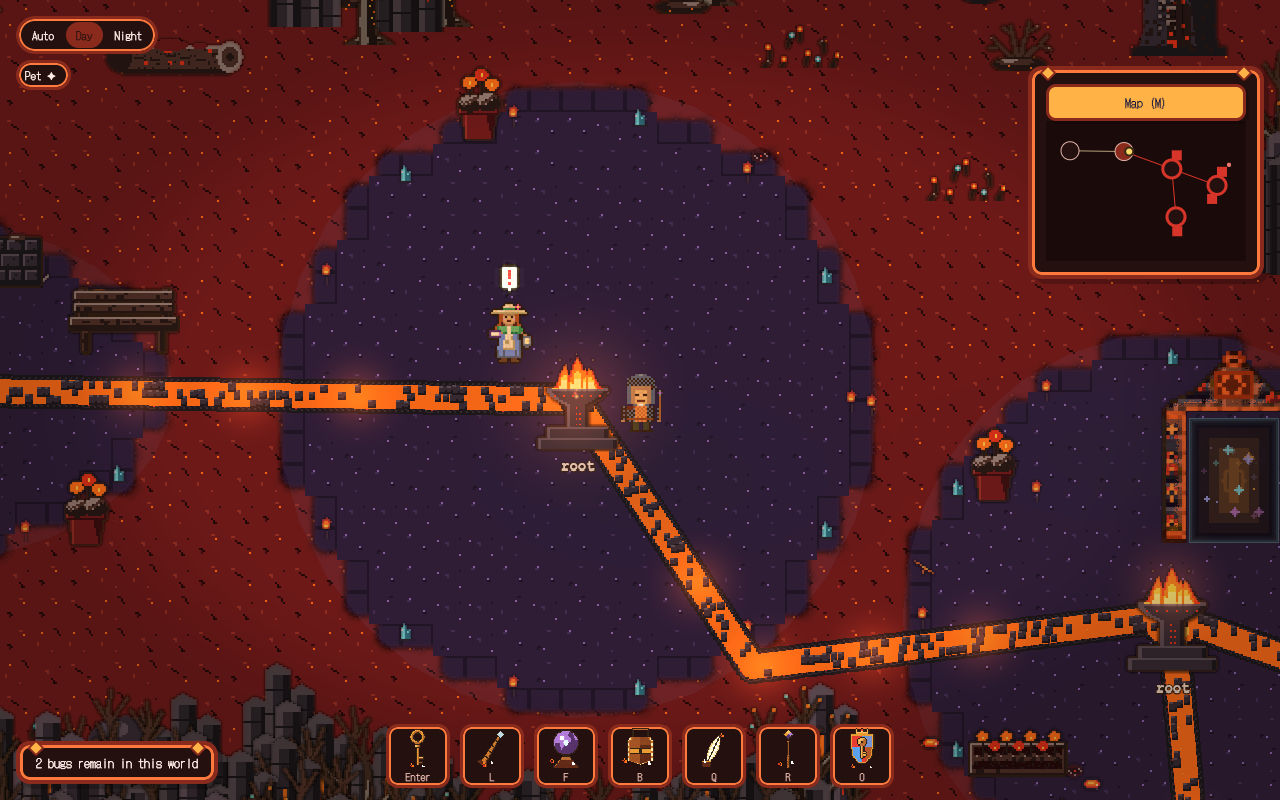
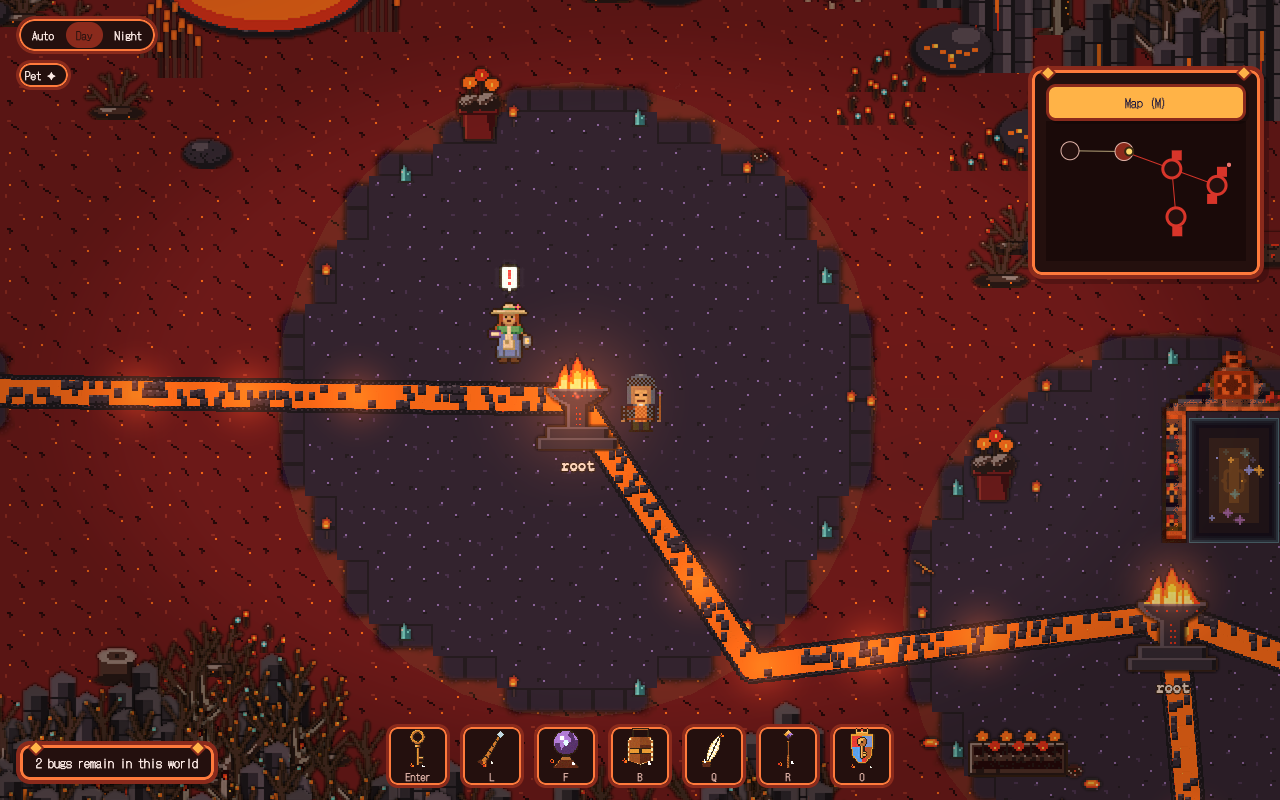
Shrink empty clearings in the shadow realm
User decision 2026-09-30. mergeLayer reports emptyClusterIds for an
exclusive layer (base clusters with no shown portal and no layer path);
WorldScene hands the ground bake drawnClearingRadii for those, a small
patch around the fountain. Layout (arch spots, gates, keepouts) keeps the
full clearing; the bake internals are untouched.

diff --git a/apps/demo/e2e/shadow-owner.spec.ts b/apps/demo/e2e/shadow-owner.spec.ts
@@ -205,6 +205,8 @@ interface Drawn {
 	monsterSprites: string[];
 	editedMarkers: string[];
 	signs: string[];
+	/** Each clearing's drawn ground radii, by cluster id (a hidden annex shares its folder's label). */
+	ground: Record<string, [number, number]>;
 }
 
 /** What WorldScene itself has drawn, beyond the arches. */
@@ -220,7 +222,10 @@ async function drawn(page: Page): Promise<Drawn> {
 			monsterSprites: Map<string, { active: boolean }>;
 			editedMarkers: Map<string, unknown>;
 			signs: { placed: Map<string, unknown> } | null;
+			drawnGroundRadii: Map<string, { x: number; y: number }>;
 		};
+		const ground: Record<string, [number, number]> = {};
+		for (const [id, r] of world.drawnGroundRadii) ground[id] = [r.x, r.y];
 		const spots: Record<string, [number, number]> = {};
 		for (const [id, p] of world.portalWorldPos) spots[id] = [p.x, p.y];
 		return {
@@ -230,6 +235,7 @@ async function drawn(page: Page): Promise<Drawn> {
 				.map(([id]) => id),
 			editedMarkers: [...world.editedMarkers.keys()],
 			signs: [...(world.signs?.placed.keys() ?? [])],
+			ground,
 		};
 	});
 }
@@ -584,6 +590,23 @@ test("owner: the toolkit's sudo entry raises the shadow realm, hidden files read
 	expect(before.portals.length).toBeGreaterThan(0);
 	expect(before.monsters.length).toBeGreaterThan(0);
 	expect(beforeDrawn.monsterSprites.length).toBeGreaterThan(0);
+	const docsId = await page.evaluate(
+		() =>
+			(
+				window as unknown as { __cabnStore: { getState(): CabnStore } }
+			).__cabnStore
+				.getState()
+				.worldMap?.clusters.find((c) => c.label === "docs")?.id ?? "",
+	);
+	const rootId = await page.evaluate(
+		() =>
+			(
+				window as unknown as { __cabnStore: { getState(): CabnStore } }
+			).__cabnStore
+				.getState()
+				.worldMap?.clusters.find((c) => c.label === "root")?.id ?? "",
+	);
+	expect(beforeDrawn.ground[docsId]?.[0]).toBeGreaterThan(150);
 	const beforeScenery = await scenery(page);
 	expect(beforeScenery.items.length).toBeGreaterThan(20);
 	expect(beforeScenery.archTextures).toEqual(["portal-arch-strip"]);
@@ -647,6 +670,11 @@ test("owner: the toolkit's sudo entry raises the shadow realm, hidden files read
 	).toEqual([]);
 	expect(realmDrawn.signs.filter((p) => !isHidden(p))).toEqual([]);
 	expect(realmDrawn.editedMarkers.filter((p) => !isHidden(p))).toEqual([]);
+	// docs, with nothing hidden under it, draws only a small patch; root,
+	// which a layer path still leaves, keeps its full clearing.
+	expect(realmDrawn.ground[docsId]?.[0]).toBeLessThanOrEqual(110);
+	expect(realmDrawn.ground[docsId]?.[1]).toBeLessThanOrEqual(80);
+	expect(realmDrawn.ground[rootId]).toEqual(beforeDrawn.ground[rootId]);
 	// The normal arch spots keep their places in the layout, undrawn.
 	for (const [id, pos] of Object.entries(beforeDrawn.spots))
 		expect(realmDrawn.spots[id], id).toEqual(pos);
@@ -946,8 +974,8 @@ test("owner: the toolkit's sudo entry raises the shadow realm, hidden files read
 	expect(pet?.search).toEqual([]);
 	expect(pet?.env).toBeNull();
 
-	// For review: a normal folder with no hidden file under it keeps its
-	// clearing in the realm, empty.
+	// For review: a normal folder with no hidden file under it keeps a small
+	// patch of its clearing in the realm.
 	if (TAKE_SHOTS) {
 		const docs = await page.evaluate(() => {
 			const s = (
@@ -1025,6 +1053,7 @@ test("owner: the toolkit's sudo entry raises the shadow realm, hidden files read
 		[...beforeDrawn.monsterSprites].sort(),
 	);
 	expect(offDrawn.spots).toEqual(beforeDrawn.spots);
+	expect(offDrawn.ground).toEqual(beforeDrawn.ground);
 	expect(offDrawn.signs.sort()).toEqual([...beforeDrawn.signs].sort());
 	await expect(page.getByText(/bugs? remains? in this world/)).toHaveText(
 		`${before.monsters.length} bug${before.monsters.length === 1 ? "" : "s"} remain in this world`,

diff --git a/packages/engine/src/systems/worldLayer.ts b/packages/engine/src/systems/worldLayer.ts
@@ -452,6 +452,8 @@ export interface MergedWorld {
 	layer: LayerIds;
 	/** The layer hides the base world's portals, monsters and signs (WorldLayerProvider.exclusive). */
 	exclusive: boolean;
+	/** Base clusters an exclusive layer leaves with nothing to show (emptyBaseClusters); always empty otherwise. */
+	emptyClusterIds: ReadonlySet<string>;
 }
 
 export interface MergeOptions {
@@ -483,27 +485,72 @@ export function mergeLayer(
 	assertWorldLayerFits(base, delta);
 	const exclusive = options.exclusive === true;
 	const layerMonsters = [...delta.monsters, ...delta.extendedMonsters];
+	const manifest: WorldManifest = {
+		...base,
+		clusters: [...base.clusters, ...delta.clusters],
+		portals: exclusive
+			? [...delta.portals]
+			: [...base.portals, ...delta.portals],
+		paths: [...base.paths, ...delta.paths],
+		monsters: exclusive ? layerMonsters : [...base.monsters, ...layerMonsters],
+	};
+	const layer: LayerIds = {
+		clusterIds: new Set(delta.clusters.map((c) => c.id)),
+		portalIds: new Set(delta.portals.map((p) => p.id)),
+		pathIds: new Set(delta.paths.map(worldPathId)),
+		monsterIds: new Set(layerMonsters.map((m) => m.id)),
+		signPaths: new Set(delta.signs.map((s) => s.path)),
+	};
 	return {
 		exclusive,
-		manifest: {
-			...base,
-			clusters: [...base.clusters, ...delta.clusters],
-			portals: exclusive
-				? [...delta.portals]
-				: [...base.portals, ...delta.portals],
-			paths: [...base.paths, ...delta.paths],
-			monsters: exclusive
-				? layerMonsters
-				: [...base.monsters, ...layerMonsters],
-		},
-		layer: {
-			clusterIds: new Set(delta.clusters.map((c) => c.id)),
-			portalIds: new Set(delta.portals.map((p) => p.id)),
-			pathIds: new Set(delta.paths.map(worldPathId)),
-			monsterIds: new Set(layerMonsters.map((m) => m.id)),
-			signPaths: new Set(delta.signs.map((s) => s.path)),
-		},
+		manifest,
+		layer,
+		emptyClusterIds: exclusive
+			? emptyBaseClusters(manifest, layer)
+			: new Set<string>(),
 	};
+}
+
+/**
+ * Base clusters with nothing left to show in a merged view: no portal of
+ * theirs in it and no layer path leaving them. Base paths don't count —
+ * they only pass through on the way to somewhere else.
+ */
+export function emptyBaseClusters(
+	manifest: Pick<WorldManifest, "clusters" | "portals" | "paths">,
+	layer: Pick<LayerIds, "clusterIds" | "pathIds">,
+): Set<string> {
+	const busy = new Set(manifest.portals.map((p) => p.clusterId));
+	for (const path of manifest.paths) {
+		if (!layer.pathIds.has(worldPathId(path))) continue;
+		busy.add(path.from);
+		busy.add(path.to);
+	}
+	return new Set(
+		manifest.clusters
+			.filter((c) => !layer.clusterIds.has(c.id) && !busy.has(c.id))
+			.map((c) => c.id),
+	);
+}
+
+/** An empty clearing's drawn ground: a patch just big enough for its fountain or bonfire. */
+export const EMPTY_CLEARING_PATCH = { x: 110, y: 80 } as const;
+
+/**
+ * The ground a clearing draws (tiles, flower ring, decals, props). Only an
+ * empty one shrinks, to a patch around its centre; its layout (arch spots,
+ * path gates, scenery keepouts) keeps the full size either way.
+ */
+export function drawnClearingRadii(
+	full: { x: number; y: number },
+	empty: boolean,
+): { x: number; y: number } {
+	return empty
+		? {
+				x: Math.min(full.x, EMPTY_CLEARING_PATCH.x),
+				y: Math.min(full.y, EMPTY_CLEARING_PATCH.y),
+			}
+		: full;
 }
 
 /**

diff --git a/packages/engine/src/scenes/WorldScene.ts b/packages/engine/src/scenes/WorldScene.ts
@@ -174,6 +174,7 @@ import { activeFocusOwner } from "../systems/uiFocus.js";
 import {
 	type ActiveWorldLayer,
 	DEFAULT_SKIN,
+	drawnClearingRadii,
 	editorSaveTarget,
 	inLayerClearing,
 	isHiddenPath,
@@ -385,6 +386,7 @@ export class WorldScene extends Phaser.Scene {
 	private portalsById = new Map<string, Portal>();
 	private portalWorldPos = new Map<string, Position>();
 	private portalRingRadii = new Map<string, number>();
+	private drawnGroundRadii = new Map<string, { x: number; y: number }>();
 	private clearingRadiiY = new Map<string, number>();
 	private portalSprites = new Map<string, Phaser.GameObjects.Sprite>();
 	private portalVariantOverlays = new Map<string, Phaser.GameObjects.Image>();
@@ -1186,12 +1188,8 @@ export class WorldScene extends Phaser.Scene {
 			const g = this.add.graphics().setDepth(0);
 			for (const cluster of this.manifest.clusters) {
 				g.fillStyle(PALETTE.biome[cluster.biome], 0.35);
-				g.fillEllipse(
-					cluster.pos.x,
-					cluster.pos.y,
-					this.groundRadius(cluster) * 2,
-					this.groundRadiusY(cluster) * 2,
-				);
+				const drawn = this.drawnGround(cluster);
+				g.fillEllipse(cluster.pos.x, cluster.pos.y, drawn.x * 2, drawn.y * 2);
 			}
 			return;
 		}
@@ -1209,8 +1207,7 @@ export class WorldScene extends Phaser.Scene {
 
 		const tintOverlay = this.add.graphics().setDepth(0.6);
 		for (const cluster of this.manifest.clusters) {
-			const radiusX = this.groundRadius(cluster);
-			const radiusY = this.groundRadiusY(cluster);
+			const { x: radiusX, y: radiusY } = this.drawnGround(cluster);
 			const exclusions = this.clusterExclusions(cluster, spawn);
 
 			bakeClusterGround({
@@ -1648,6 +1645,16 @@ export class WorldScene extends Phaser.Scene {
 			this.clearingRadiiY.get(cluster.id) ??
 			this.groundRadius(cluster) * GROUND_RADIUS_Y_RATIO
 		);
+	}
+
+	/** The clearing's drawn ground, which an empty clearing in a layer shrinks (drawnClearingRadii); records it for the e2e. */
+	private drawnGround(cluster: Cluster): { x: number; y: number } {
+		const drawn = drawnClearingRadii(
+			{ x: this.groundRadius(cluster), y: this.groundRadiusY(cluster) },
+			this.layerSeam?.emptyClusterIds.has(cluster.id) ?? false,
+		);
+		this.drawnGroundRadii.set(cluster.id, drawn);
+		return drawn;
 	}
 
 	/** Circle around the hub that contains the whole clearing, for circular keepouts. */
@@ -2679,6 +2686,7 @@ export class WorldScene extends Phaser.Scene {
 		this.portalsById = new Map();
 		this.portalWorldPos = new Map();
 		this.portalRingRadii = new Map();
+		this.drawnGroundRadii = new Map();
 		this.portalSprites = new Map();
 		this.portalVariantOverlays = new Map();
 		this.portalVariants = new Map();

diff --git a/packages/engine/tests/worldLayer.test.ts b/packages/engine/tests/worldLayer.test.ts
@@ -2,7 +2,10 @@ import type { WorldLayerManifest, WorldManifest } from "@cabn/world-schema";
 import { describe, expect, it } from "vitest";
 import { layoutPortalRing } from "../src/systems/portalRing.js";
 import {
+	drawnClearingRadii,
+	EMPTY_CLEARING_PATCH,
 	editorSaveTarget,
+	emptyBaseClusters,
 	isHiddenPath,
 	LAYER_PATH_GATE_OUT_PX,
 	layerPathRoutes,
@@ -263,6 +266,49 @@ describe("mergeLayer with an exclusive layer", () => {
 		expect(mergeLayer(base, delta, { exclusive: false })).toEqual(plain);
 		expect(plain.manifest.portals).toHaveLength(9);
 		expect(plain.manifest.monsters.map((m) => m.id)).toEqual(["m1", "m2"]);
+	});
+});
+
+describe("empty clearings", () => {
+	it("an exclusive layer marks the base clusters left with no portal and no layer path", () => {
+		// root keeps the layer paths to its hidden clusters; src has neither.
+		expect([
+			...mergeLayer(base, delta, { exclusive: true }).emptyClusterIds,
+		]).toEqual(["src"]);
+		expect(mergeLayer(base, delta).emptyClusterIds.size).toBe(0);
+	});
+
+	it("a base path alone doesn't keep a clearing busy, a layer path or a shown portal does", () => {
+		const merged = mergeLayer(base, delta, { exclusive: true });
+		const noLayerPaths = {
+			...merged.manifest,
+			paths: merged.manifest.paths.filter(
+				(p) => !merged.layer.pathIds.has(`${p.from}::${p.to}`),
+			),
+		};
+		expect([...emptyBaseClusters(noLayerPaths, merged.layer)].sort()).toEqual([
+			"root",
+			"src",
+		]);
+		expect([
+			...emptyBaseClusters(
+				{
+					...noLayerPaths,
+					portals: [...noLayerPaths.portals, portal("src/x.ts", "src")],
+				},
+				merged.layer,
+			),
+		]).toEqual(["root"]);
+	});
+
+	it("only an empty clearing's drawn ground shrinks, and never grows", () => {
+		const full = { x: 300, y: 200 };
+		expect(drawnClearingRadii(full, false)).toBe(full);
+		expect(drawnClearingRadii(full, true)).toEqual(EMPTY_CLEARING_PATCH);
+		expect(drawnClearingRadii({ x: 90, y: 60 }, true)).toEqual({
+			x: 90,
+			y: 60,
+		});
 	});
 });
 

diff --git a/packages/engine/src/scenes/worldLayerSeam.ts b/packages/engine/src/scenes/worldLayerSeam.ts
@@ -52,6 +52,8 @@ export class WorldLayerSeam {
 	readonly provider: WorldLayerProvider;
 	/** The layer hides the base world's portals, monsters and signs while it shows. */
 	readonly exclusive: boolean;
+	/** Base clusters the layer leaves with nothing to show; they draw only a small patch of ground. */
+	readonly emptyClusterIds: ReadonlySet<string>;
 	private layerManifest: WorldLayerManifest;
 	private routes = new Map<string, Position[]>();
 	private slot: SaveData | null = null;
@@ -61,6 +63,7 @@ export class WorldLayerSeam {
 		this.manifest = merged.manifest;
 		this.layer = merged.layer;
 		this.exclusive = merged.exclusive;
+		this.emptyClusterIds = merged.emptyClusterIds;
 		this.riser = new GroundRiser(active.provider.skin);
 		this.provider = active.provider;
 		this.layerManifest = active.manifest;

diff --git a/README.md b/README.md
@@ -257,7 +257,7 @@ Every route goes through the owner gate above and answers `Cache-Control: no-sto
 | `POST /owner/shadow/save` | `{ path, content, baseSha256 }`: overwrites an existing hidden text file from the layer on disk only. It is never staged or committed. Answers 409 when the file's current SHA-256 isn't `baseSha256`. Refused for a path that isn't a hidden text file in the layer, is reached through a symlink or sits in the git directory, or for a file that no longer exists. Nothing is created or deleted. The body is capped at 2 MB and the content at 512 KB. The file keeps its permission bits, so a `.husky` hook stays executable. |
 
 `/owner/signs/save` and `/owner/signs/delete` take `realm: "shadow"` for a sign in a hidden folder (never in `.git` or an ignored folder, case-insensitively; the file name still starts with a letter or digit). A shadow sign updates only the cached layer, never `signs.json`. The normal realm still refuses hidden folders.
-In the game, the owner's toolkit (`O`, world mode only) has a **Sudo** entry. It turns the current world into the shadow realm: the normal arches sink into the ground, the hidden clusters rise out of it, the world takes a crimson tint, and the HUD, the file view and the spellbook go crimson. The realm shows only hidden files: no normal arch, preview, live embed, monster or sign, and the orb, spyglass, map and monster counter list only the realm's own files and monsters. The base clearings, fountains and paths stay, reskinned, as the realm's skeleton, so every hidden cluster can be walked to; a normal folder with nothing hidden under it keeps its clearing, empty. Nothing moves: every cluster keeps its position, each normal arch's spot stays reserved in its ring, and a layer path leaves its base clearing through the widest gap between those spots instead of claiming a new gate. Hidden files open, read and save like any other file, except that a save goes to disk (`POST /owner/shadow/save`) and only counts once the disk has it; if the file changed on disk meanwhile, the game says so and offers to reload it from disk. The orb searches both indexes and marks hidden results, the map draws the layer in crimson, and signs can be placed in hidden folders while the realm shows. Pick Sudo again and it all sinks away and the normal arches rise back, with the same files, monsters, signs and save as before. The realm always starts off after a reload. Shadow edits are never written to the browser's storage (no save override, no local or session storage); visits and defeated monsters in the realm go in a separate save slot, `cabn:save:<worldId>#shadow`. Pets still never see any of it, and while the realm shows they see no normal file either. The engine's main entry only has a neutral "world layer" seam (a layer that hides the base world's contents sets `WorldLayerProvider.exclusive`); the shadow client, skin and palette are in `@cabn/engine/owner`, and the demo's postbuild check fails the build if any of it reaches the hosted bundle.
+In the game, the owner's toolkit (`O`, world mode only) has a **Sudo** entry. It turns the current world into the shadow realm: the normal arches sink into the ground, the hidden clusters rise out of it, the world takes a crimson tint, and the HUD, the file view and the spellbook go crimson. The realm shows only hidden files: no normal arch, preview, live embed, monster or sign, and the orb, spyglass, map and monster counter list only the realm's own files and monsters. The base clearings, fountains and paths stay, reskinned, as the realm's skeleton, so every hidden cluster can be walked to; a normal folder with nothing hidden under it shrinks to a small patch of ground around its fountain, its paths still leading in. Nothing moves: every cluster keeps its position, each normal arch's spot stays reserved in its ring, and a layer path leaves its base clearing through the widest gap between those spots instead of claiming a new gate. Hidden files open, read and save like any other file, except that a save goes to disk (`POST /owner/shadow/save`) and only counts once the disk has it; if the file changed on disk meanwhile, the game says so and offers to reload it from disk. The orb searches both indexes and marks hidden results, the map draws the layer in crimson, and signs can be placed in hidden folders while the realm shows. Pick Sudo again and it all sinks away and the normal arches rise back, with the same files, monsters, signs and save as before. The realm always starts off after a reload. Shadow edits are never written to the browser's storage (no save override, no local or session storage); visits and defeated monsters in the realm go in a separate save slot, `cabn:save:<worldId>#shadow`. Pets still never see any of it, and while the realm shows they see no normal file either. The engine's main entry only has a neutral "world layer" seam (a layer that hides the base world's contents sets `WorldLayerProvider.exclusive`); the shadow client, skin and palette are in `@cabn/engine/owner`, and the demo's postbuild check fails the build if any of it reaches the hosted bundle.
 
 ### AI pets (bring your own key)
 

diff --git a/CHANGELOG.md b/CHANGELOG.md
@@ -1,5 +1,11 @@
 # Changelog
 
+## 2026-09-30 — Empty clearings shrink in the shadow realm
+
+- **User decision (2026-09-30): shrink the empty clearings.** In a layer that hides the base world, a base clearing with nothing left to show (no arch of its own in view and no layer path leaving it) draws only a small patch of ground around its fountain or bonfire (at most 110×80 px radii): the tiles, flower ring, decals, theme tint and prop scatter all shrink to it. Its paths still run right into the patch. Arch spots, path gates, sign placement and scenery keepouts keep the full clearing, so nothing else moves, and leaving the realm draws the full clearing again.
+- **Neutral seam.** `mergeLayer` now reports `emptyClusterIds` (from the new `emptyBaseClusters`; always empty without an exclusive layer), and WorldScene hands the ground bake the radii from `drawnClearingRadii(full, empty)`. The bake itself is unchanged.
+- **Tests:** `worldLayer.test.ts` (which clusters count as empty, and that the radius only ever shrinks, and only for an empty one); `shadow-owner.spec.ts` (the `docs` clearing draws a small patch in the realm, root keeps its full clearing, and every clearing is back to full after exit). Refreshed `empty-clearing-shadow.png` and `day-shadow.png`.
+
 ## 2026-09-29 — The shadow realm shows only hidden files
 
 - **User decision: "nether regions should ONLY show . files".** While Sudo is on, the realm hides the normal world's contents: every normal arch with its preview, media preview, live embed and orbiting monsters, the base path monsters, the normal signs and edited marks. The orb finds no normal file (by text or name), the spyglass and the map list only hidden files, the monster counter counts only the realm's monsters, and the pet sees and finds nothing at all.
